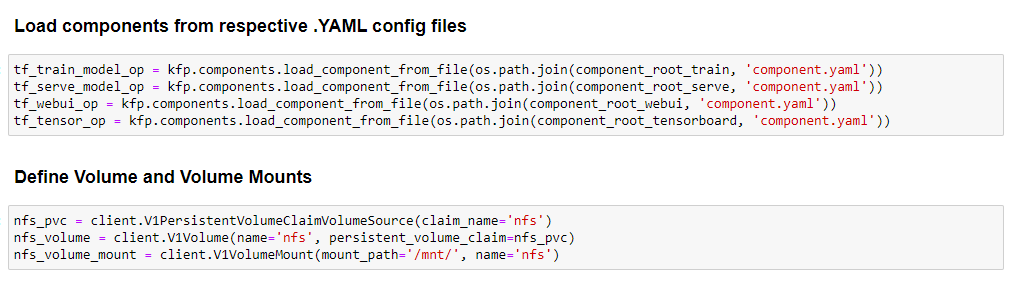
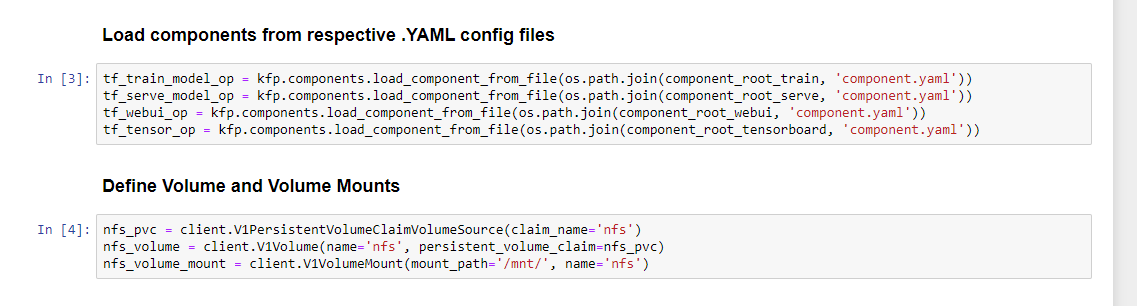
updated images and notebook

diff --git a/apps/networking/network-traffic/onprem/pipelines/README.md b/apps/networking/network-traffic/onprem/pipelines/README.md
@@ -36,6 +36,16 @@ Upload Network Traffic-Pipeline-Deployment.ipynb file from [here](./Network-Pipe
 
 Open the Network Traffic-Pipeline-Deployment.ipynb file and run pipeline
 
+Clone git repo
+
+![TF-Network Traffic  Pipeline](pictures/1-git-clone.PNG)
+
+Loading Components
+
+![TF-BLERSSI Pipeline](pictures/2-load-compoents.PNG)
+
+Run Pipeline
+
 ![TF-Network Traffic Pipeline](pictures/2-run-pipeline.PNG)
 
 Once Network Traffic Pipeline is executed Experiment and Run link will generate and displayed as output
